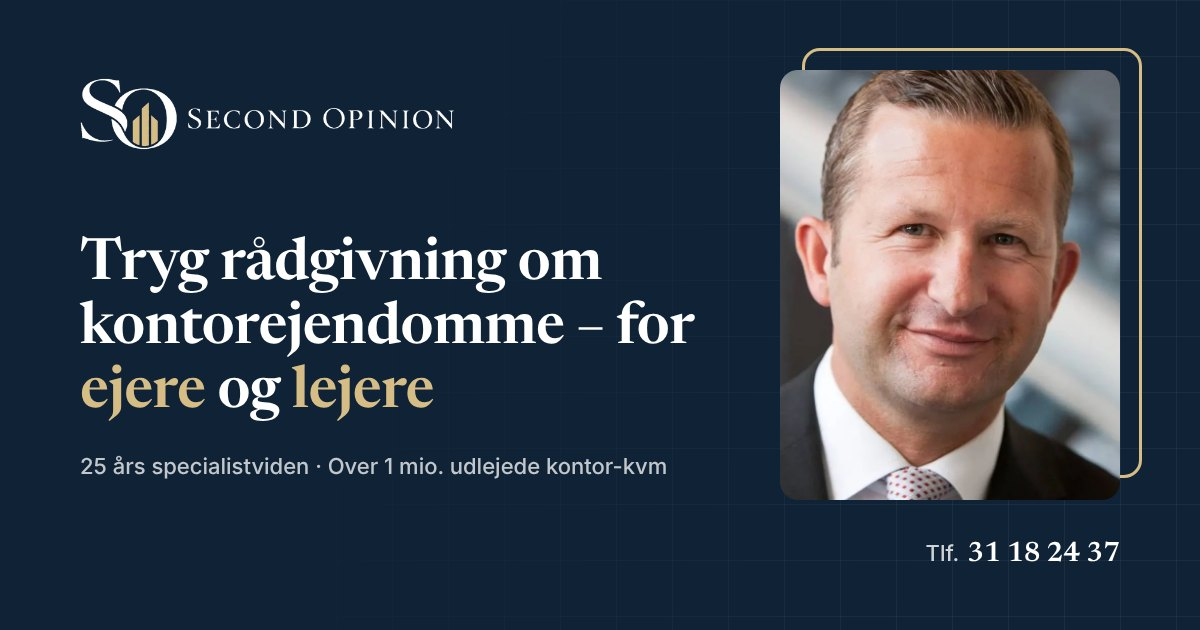
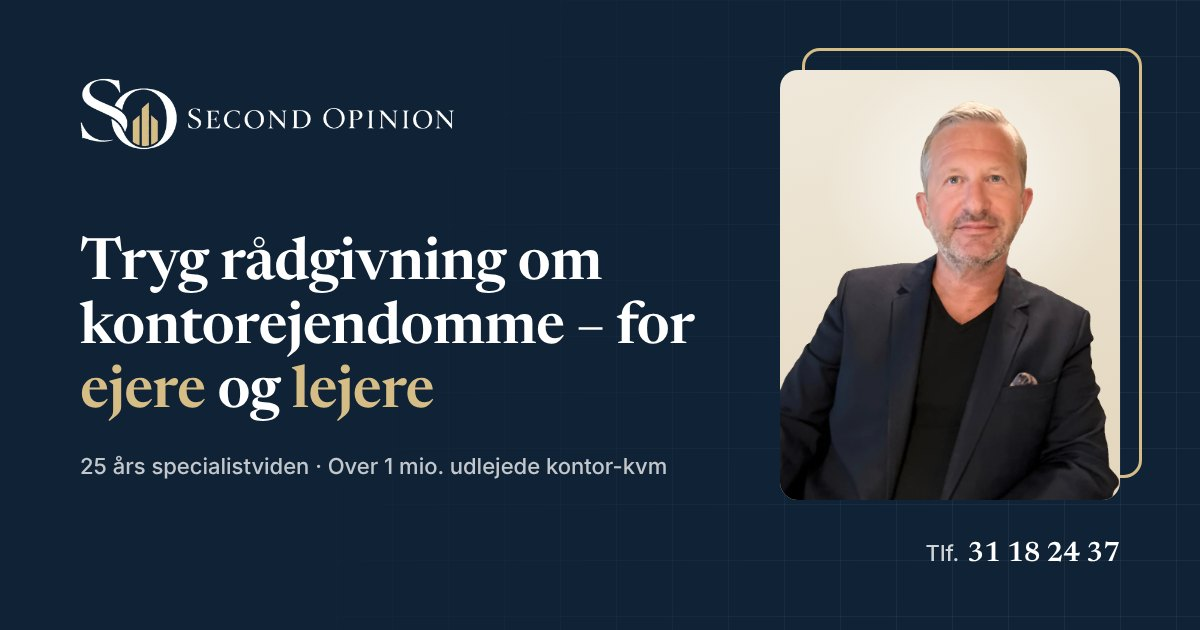
Use new portrait with background removed on the front page
Background removed with BiRefNet-portrait (face untouched), cropped above
the chair and placed on a warm panel with faint facade lines. The Open
Graph image uses the same portrait.

Claude-Session: https://claude.ai/code/session_01UF26fSNWmwTPbYNDFmuaah

Changed region(s): [[0.6475, 0.0905, 0.9558, 0.8143]]

diff --git a/style.css b/style.css
@@ -722,3 +722,36 @@ a.read-more { text-decoration: none; }
   .brand img { height: 40px; }
   .brand-footer img { width: 230px; height: auto; }
 }
+
+/* ---------- cut-out portrait on a designed panel ---------- */
+.portrait-panel {
+  position: relative;
+  aspect-ratio: 900 / 1097;
+  overflow: hidden;
+  border-radius: var(--radius);
+  background:
+    radial-gradient(60% 45% at 55% 28%, rgba(255, 255, 255, 0.75), transparent 70%),
+    linear-gradient(165deg, #efe8da 0%, #e3d6bd 100%);
+  box-shadow: var(--shadow-lg);
+}
+.portrait-panel::before {
+  /* faint facade lines behind the portrait */
+  content: '';
+  position: absolute;
+  inset: 0;
+  background-image:
+    linear-gradient(to right, rgba(15, 34, 54, 0.06) 1px, transparent 1px),
+    linear-gradient(to bottom, rgba(15, 34, 54, 0.06) 1px, transparent 1px);
+  background-size: 44px 44px;
+  -webkit-mask-image: linear-gradient(to bottom, #000 0%, transparent 75%);
+  mask-image: linear-gradient(to bottom, #000 0%, transparent 75%);
+}
+.hero-figure .portrait-panel img {
+  position: absolute;
+  left: 0;
+  bottom: 0;
+  width: 100%;
+  height: auto;
+  border-radius: 0;
+  box-shadow: none;
+}

diff --git a/index.html b/index.html
@@ -61,10 +61,9 @@
           </div>
         </div>
         <figure class="hero-figure reveal reveal-d2">
-          <picture>
-            <source srcset="/assets/jesper-norgart.webp" type="image/webp" />
-            <img src="/assets/jesper-norgart.jpg" width="720" height="881" alt="Portræt af Jesper Norgart" fetchpriority="high" />
-          </picture>
+          <div class="portrait-panel">
+            <img src="/assets/jesper-cutout.webp" width="900" height="1097" alt="Portræt af Jesper Norgart" fetchpriority="high" />
+          </div>
           <figcaption><strong>Jesper Norgart</strong><span>Erhvervsmægler · 25+ års erfaring</span></figcaption>
         </figure>
       </div>
